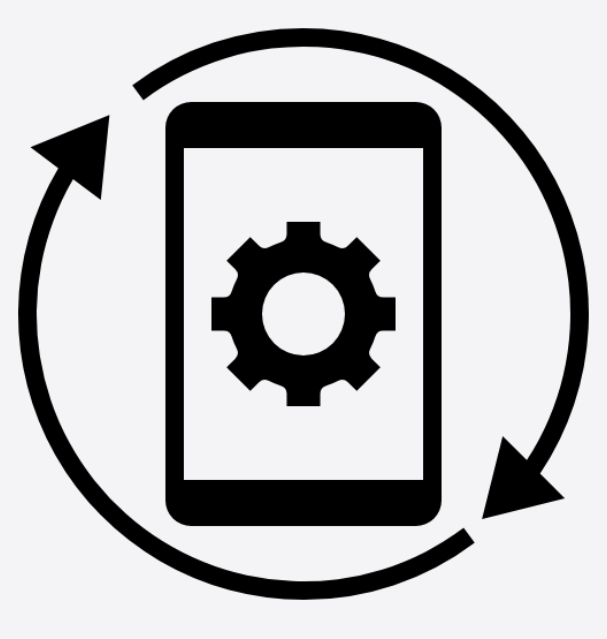
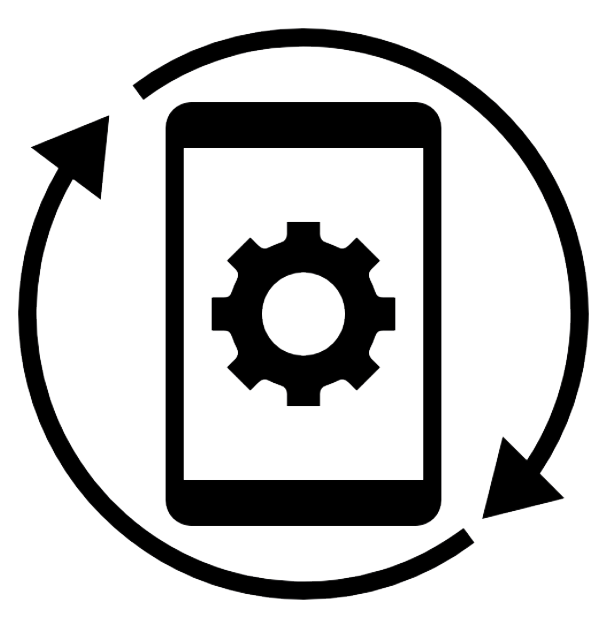
Images and index

Changed region(s): [[0.4448, 0.3568, 0.4745, 0.3865]]

diff --git a/index.html b/index.html
@@ -116,7 +116,8 @@
     </header>
 
     <section class="section container">
-        <h2>Approach: a three-step process</h2>
+        <h2>Approach</h2>
+		<p class="mb-5">Thorugh process with actual software at the center</p>
         <div class="row">
             <div class="col-md-4">
                 <h3>Evaluate</h3>
